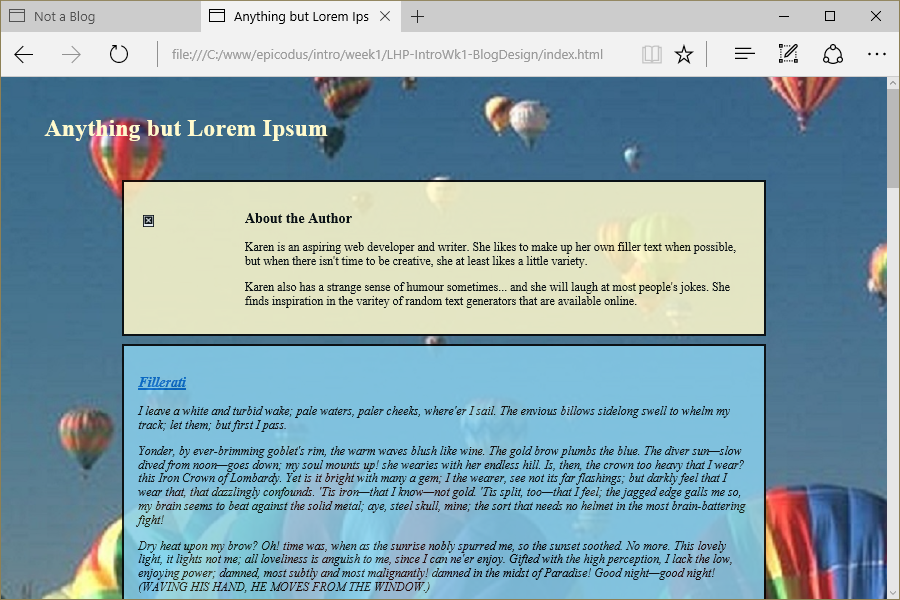
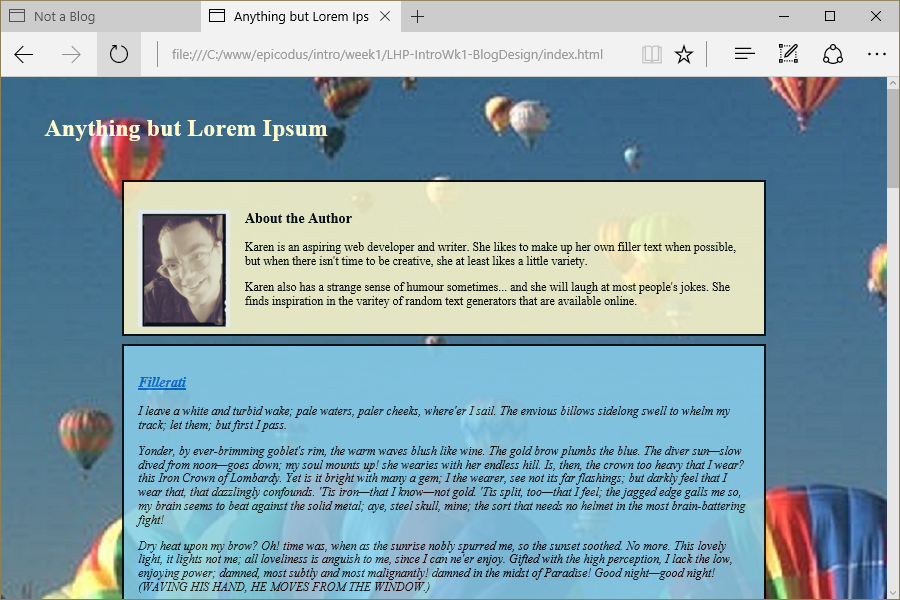
fix broken image

Changed region(s): [[0.1556, 0.33, 0.28, 0.57]]

diff --git a/index.html b/index.html
@@ -8,7 +8,7 @@
     <h1>Anything but Lorem Ipsum</h1>
 
     <div class="about">
-    <h3><a href="http://karenfreemansmith.github.io/" target="_blank"><img src="http://karenfreemansmith.github.io/my-first-webpage/img/karen.jpg"></a>About the Author</h3>
+    <h3><a href="http://karenfreemansmith.github.io/" target="_blank"><img src="img/karen.jpg"></a>About the Author</h3>
     <p>Karen is an aspiring web developer and writer. She likes to make up her own filler text when possible, but when there isn't time to be creative, she at least likes a little variety.</p>
     <p>Karen also has a strange sense of humour sometimes... and she will laugh at most people's jokes. She finds inspiration in the varitey of random text generators that are available online.</p>
     </div>
